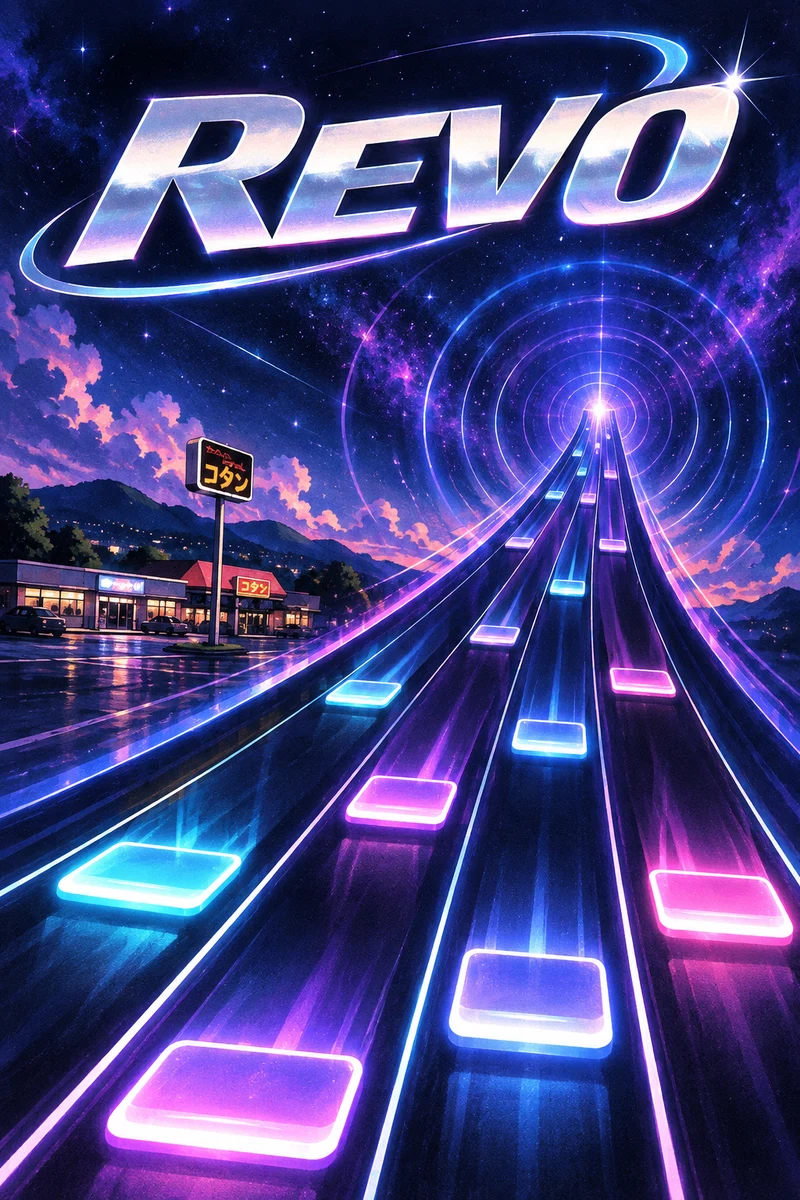
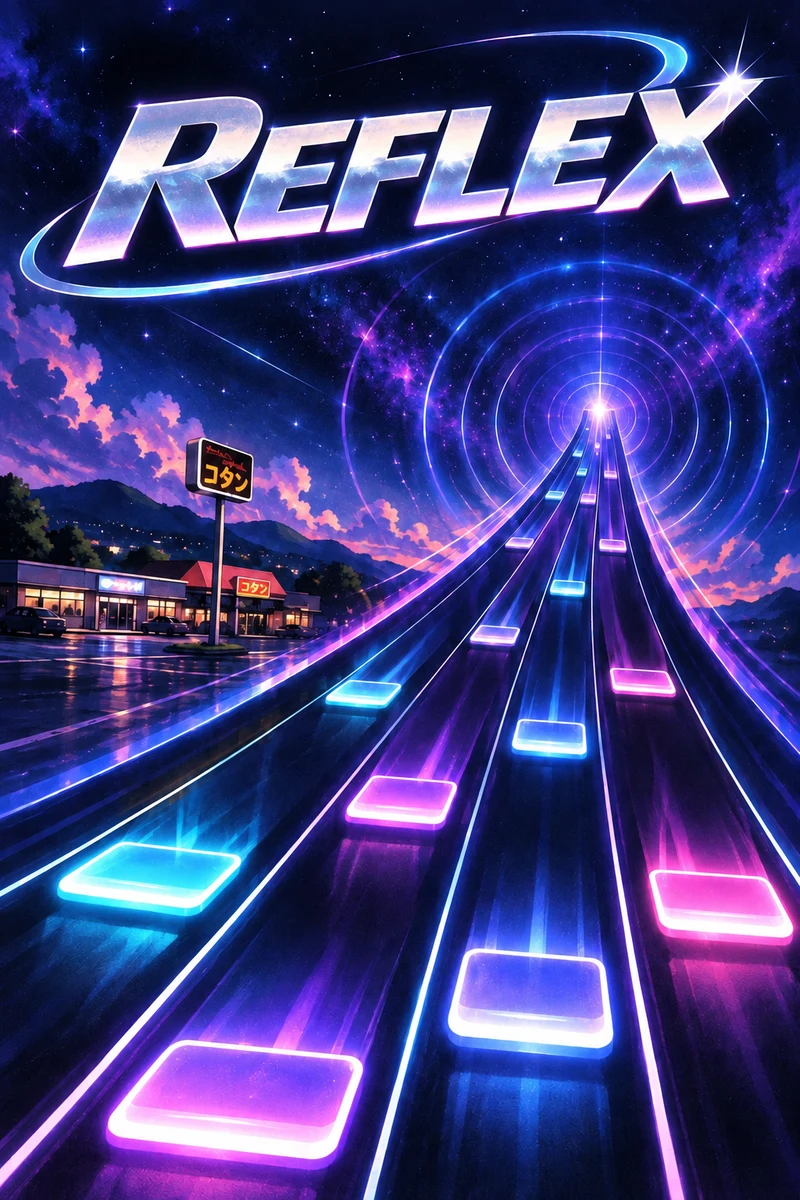
Rebrand Goose Games listing as REFLEX

diff --git a/app/data/arcade.ts b/app/data/arcade.ts
@@ -48,7 +48,7 @@ export const arcadeGames: ArcadeGame[] = [
   },
   {
     id: "revo",
-    title: "REVO",
+    title: "REFLEX",
     genre: "Rhythm",
     cover: cover("revo"),
     tagline: "Your keys. Your music.",
@@ -57,7 +57,7 @@ export const arcadeGames: ArcadeGame[] = [
     playUrl: "https://nascarjake.github.io/measure-web/",
     embedUrl: "https://nascarjake.github.io/measure-web/",
     screenshots: shots("revo", [
-      "REVO music library with track selection, key layouts, and difficulty settings.",
+      "REFLEX music library with track selection, key layouts, and difficulty settings.",
     ]),
   },
   {
